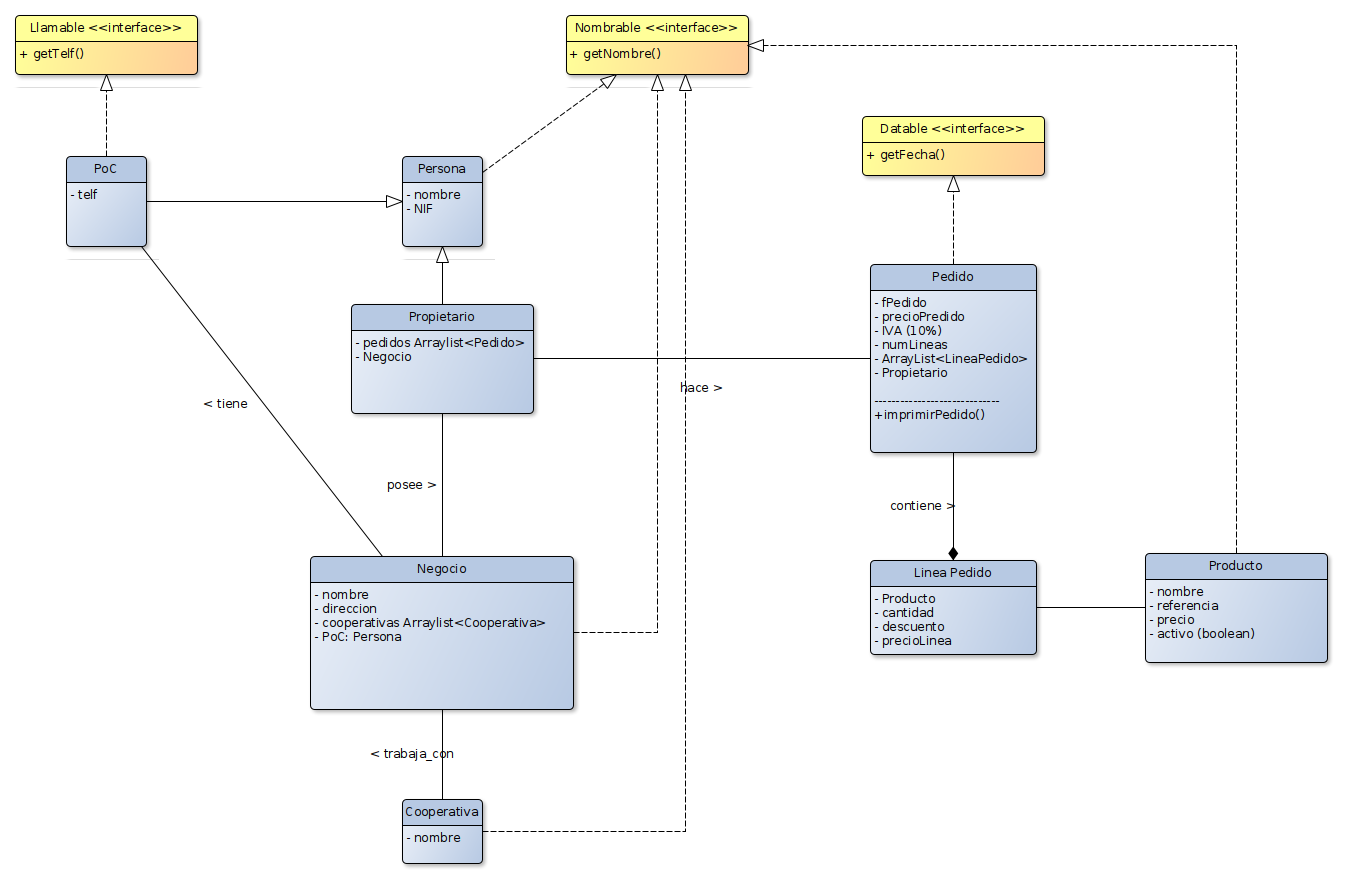
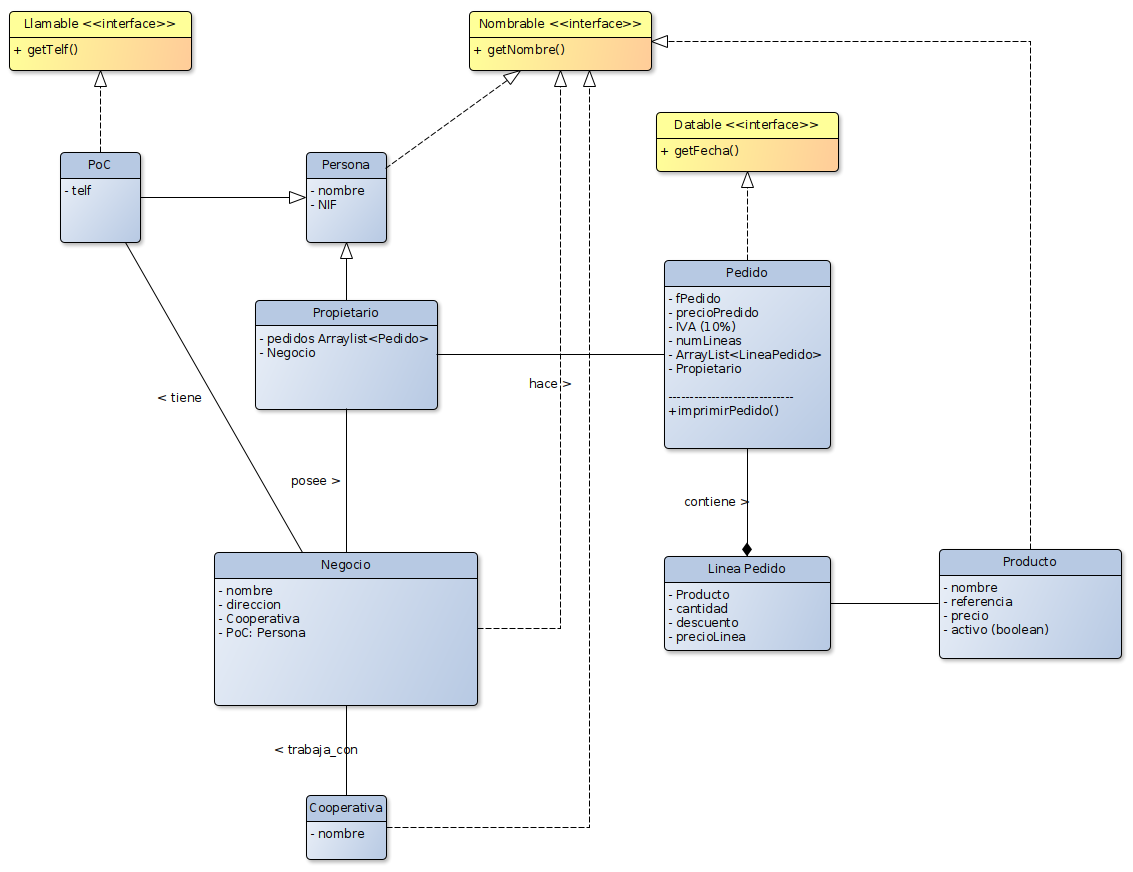
creadas todas las clases

diff --git a/src/es/farmacia/Producto.java b/src/es/farmacia/Producto.java
@@ -1,5 +1,77 @@
 package es.farmacia;
 
-public class Producto {
+public class Producto implements Nombrable{
 
+	private String nombre;
+	private int referencia;
+	private double precio;
+	private boolean activo;
+	
+	
+	// CONSTRUCTOR (activamos producto en su creacion con los constructores por defecto)
+	public Producto(String nombre, double precio) {
+		
+		this.nombre = nombre;
+		this.precio = precio;
+		this.activo = true;
+		
+	}
+	
+	public Producto(String nombre, int referencia, double precio) {
+		
+		this.nombre = nombre;
+		this.referencia = referencia;
+		this.precio = precio;
+		this.activo = true;
+		
+		
+	}
+	
+	
+	
+	public int getReferencia() {
+		return referencia;
+	}
+
+	public double getPrecio() {
+		return precio;
+	}
+
+	public boolean isActivo() {
+		return activo;
+	}
+
+	protected void setNombre(String nombre) {
+		this.nombre = nombre;
+	}
+
+	protected void setReferencia(int referencia) {
+		this.referencia = referencia;
+	}
+
+	protected void setPrecio(double precio) {
+		this.precio = precio;
+	}
+
+	protected void setActivo(boolean activo) {
+		this.activo = activo;
+	}
+
+	@Override
+	public String getNombre() {
+		// TODO Auto-generated method stub
+		return null;
+	}
+
+	@Override
+	public String toString() {
+		return "Producto [nombre=" + nombre + ", referencia=" + referencia + ", precio=" + precio + ", activo=" + activo
+				+ "]";
+	}
+	
+	
+	
+	
+	
+	
 }

diff --git a/src/es/farmacia/Negocio.java b/src/es/farmacia/Negocio.java
@@ -1,0 +1,76 @@
+package es.farmacia;
+
+public class Negocio implements Nombrable{
+
+	private String nombre;
+	private String direccion;
+	private PoC poc;
+	private Cooperativa cooperativa;
+	
+	
+	// CONSTRUCTORES
+	public Negocio(String nombre, PoC poc, Cooperativa cooperativa) {
+		
+		this.nombre = nombre;
+		this.poc = poc;
+		this.cooperativa = cooperativa;
+		
+	}
+	
+	
+	public Negocio(String nombre, String direccion, PoC poc, Cooperativa cooperativa) {
+		
+		this.nombre = nombre;
+		this.poc = poc;
+		this.cooperativa = cooperativa;
+		this.direccion = direccion;
+		
+	}
+	
+	
+	
+	
+	protected void setNombre(String nombre) {
+		this.nombre = nombre;
+	}
+
+
+	protected void setDireccion(String direccion) {
+		this.direccion = direccion;
+	}
+
+
+	protected void setPoc(PoC poc) {
+		this.poc = poc;
+	}
+
+
+	protected void setCooperativa(Cooperativa cooperativa) {
+		this.cooperativa = cooperativa;
+	}
+
+
+	public String getDireccion() {
+		return direccion;
+	}
+
+
+	public PoC getPoc() {
+		return poc;
+	}
+
+
+	public Cooperativa getCooperativa() {
+		return cooperativa;
+	}
+
+
+	@Override
+	public String getNombre() {
+		// TODO Auto-generated method stub
+		return null;
+	}
+	
+	
+
+}

diff --git a/src/es/farmacia/Cooperativa.java b/src/es/farmacia/Cooperativa.java
@@ -1,0 +1,31 @@
+package es.farmacia;
+
+public class Cooperativa implements Nombrable{
+
+	private String nombre;
+	
+	
+	
+	@Override
+	public String getNombre() {
+		// TODO Auto-generated method stub
+		return null;
+	}
+
+
+
+	protected void setNombre(String nombre) {
+		this.nombre = nombre;
+	}
+
+
+
+	@Override
+	public String toString() {
+		return "Cooperativa [nombre=" + nombre + "]";
+	}
+
+	
+	
+	
+}
